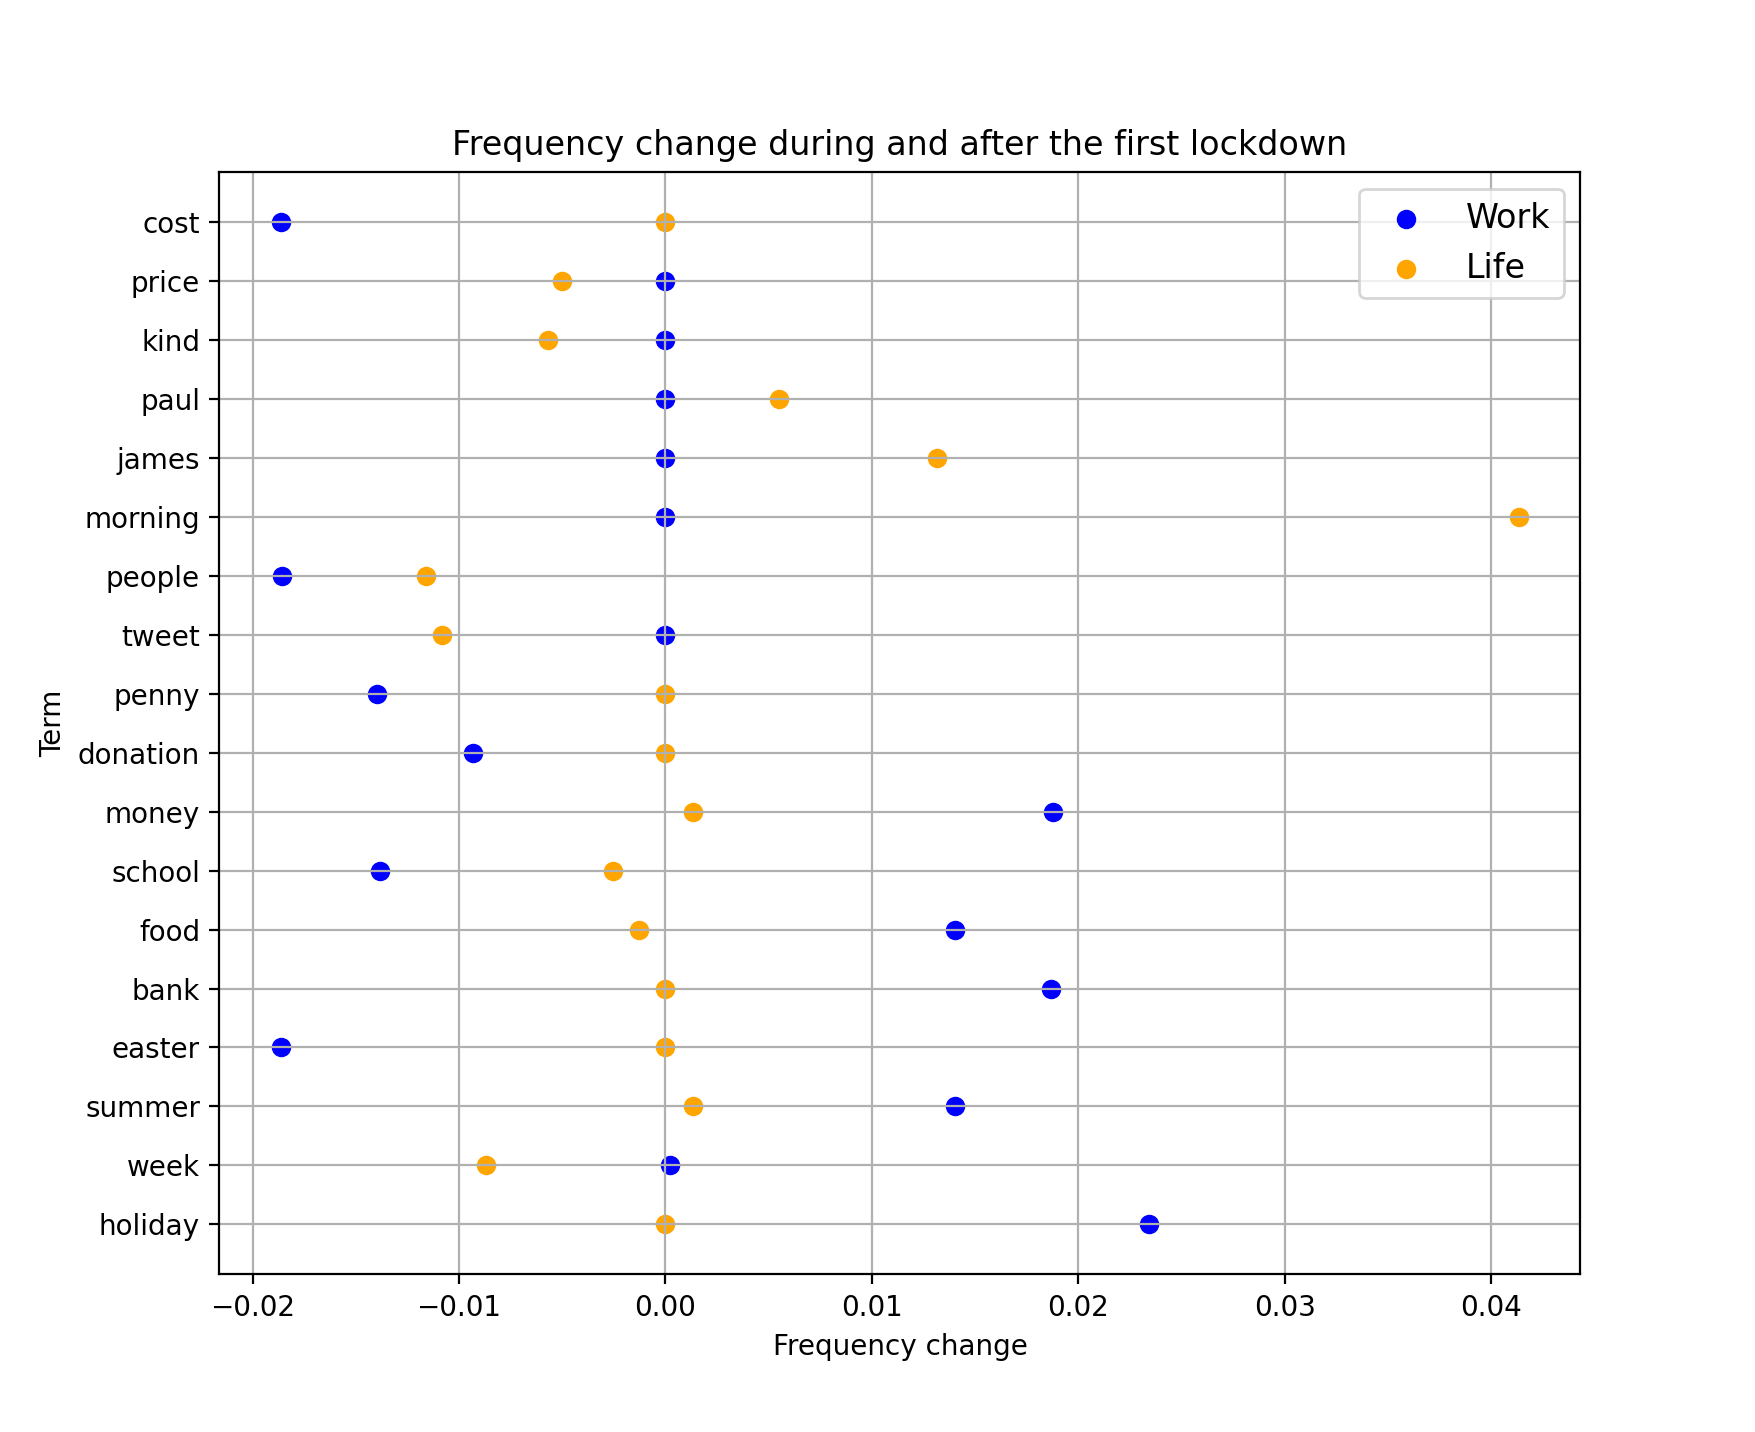
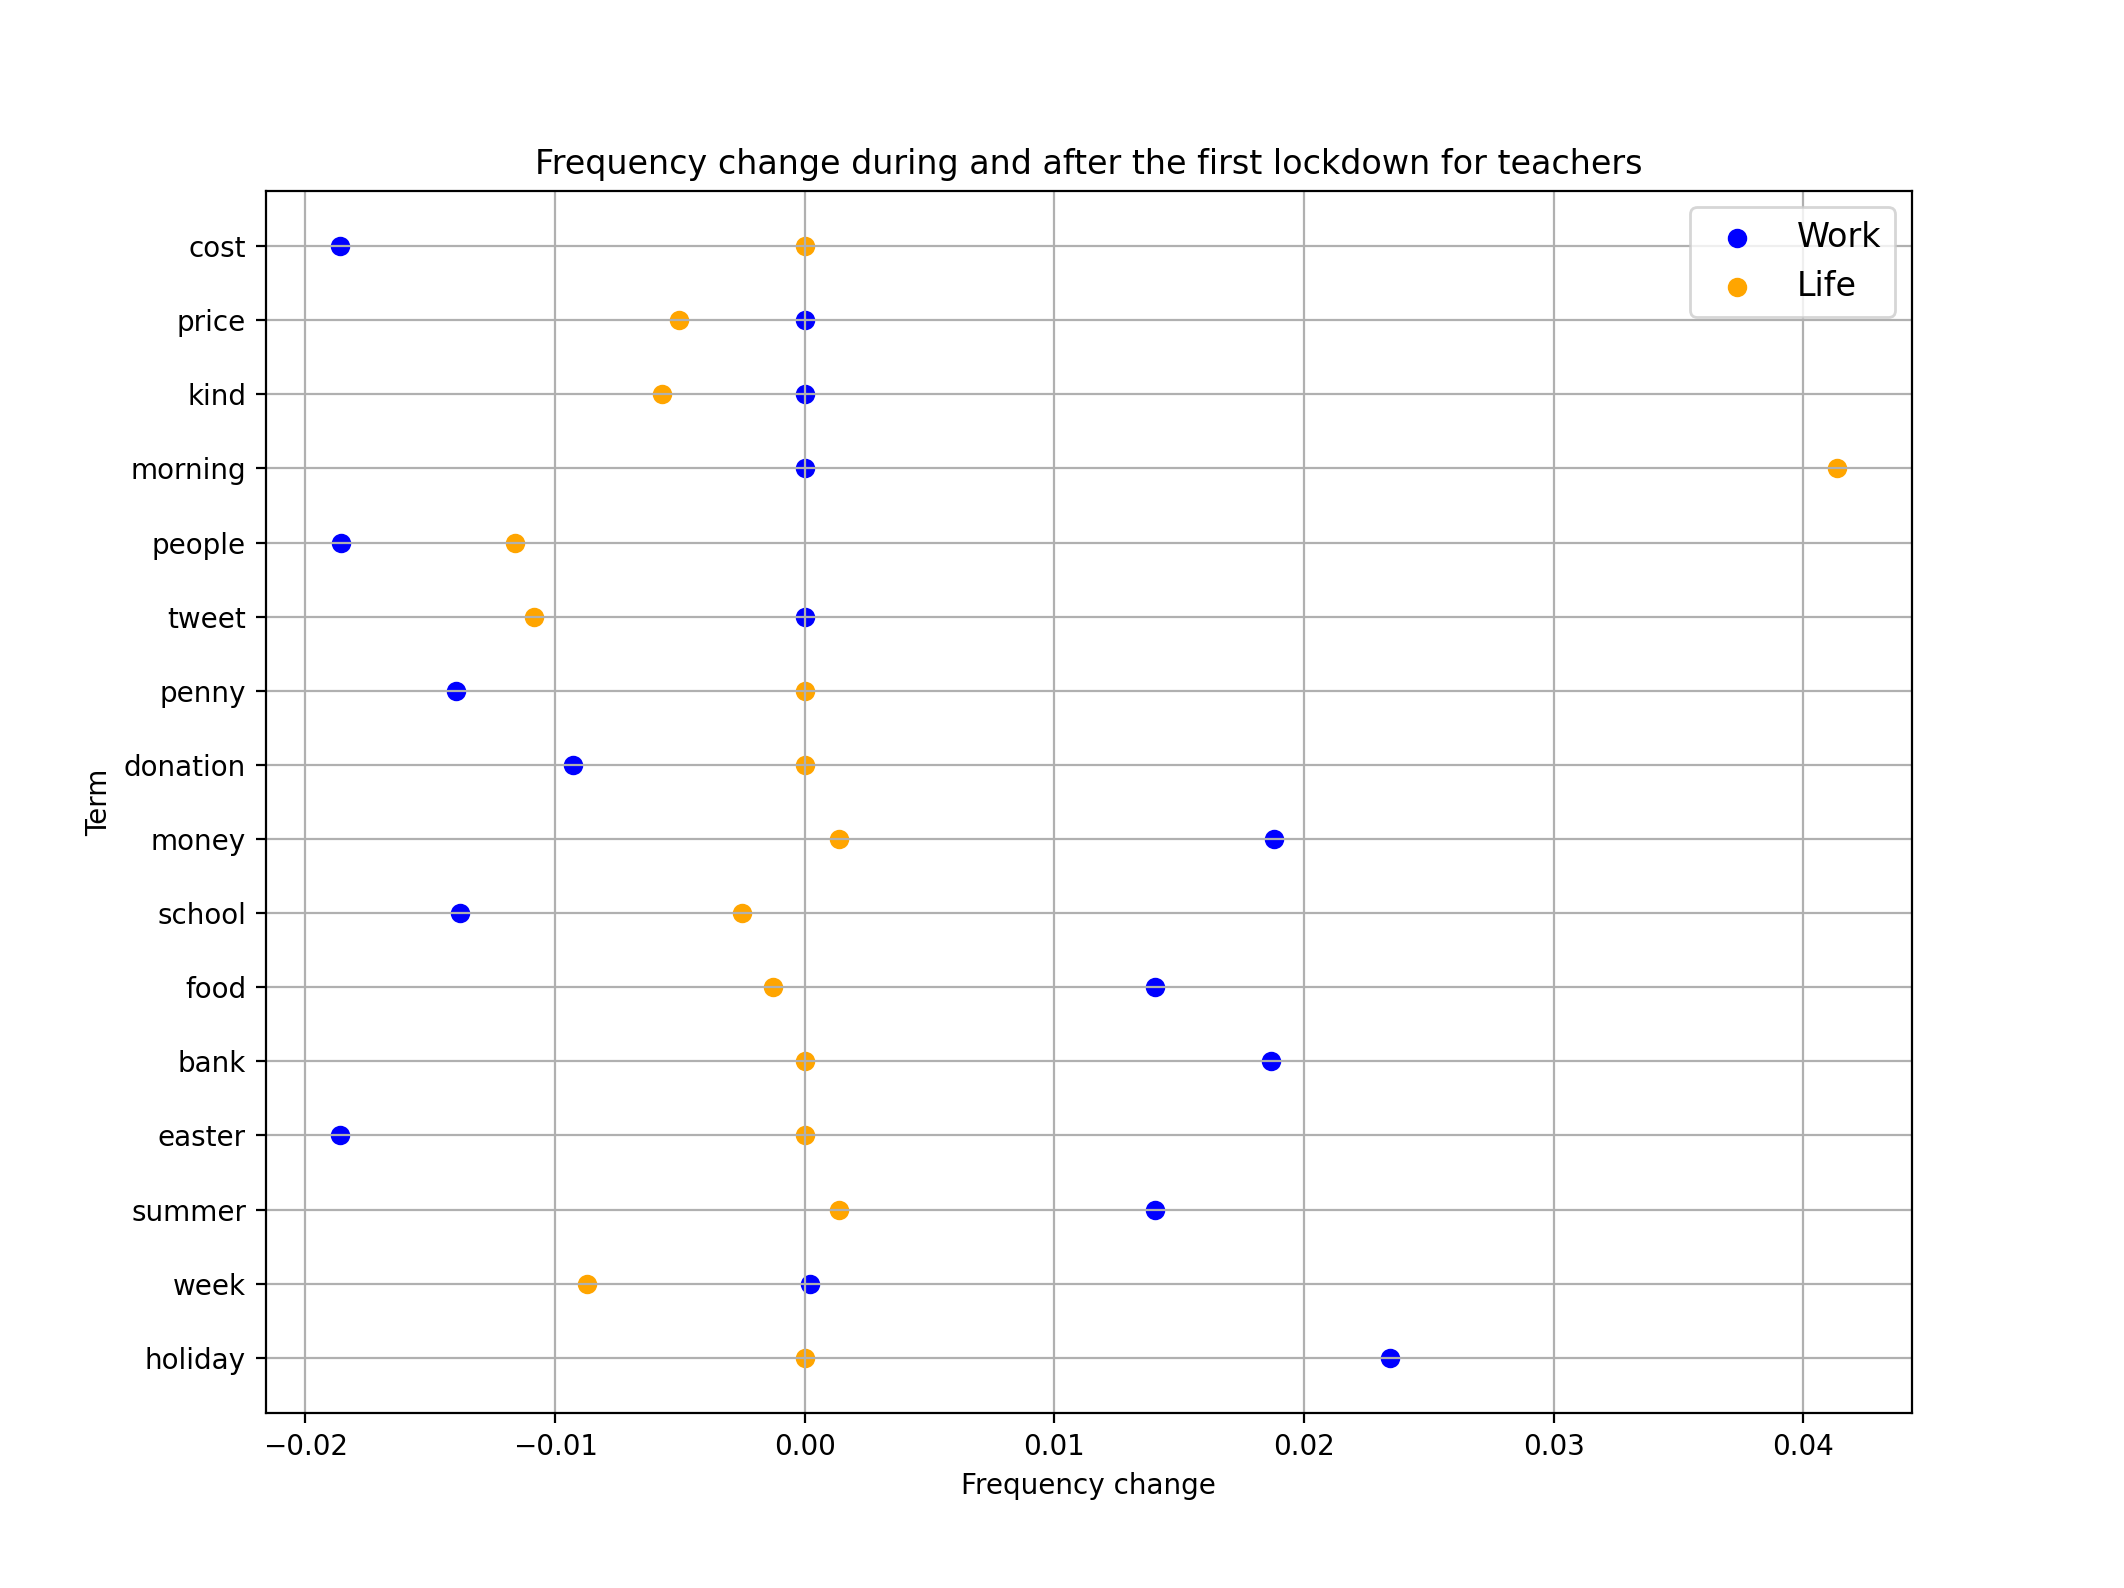
added title to teacher graphs
added title to teacher topic bar graphs

diff --git a/graphs/frequency_change.py b/graphs/frequency_change.py
@@ -178,18 +178,18 @@ def freq_change_plot(df1, df2, which_lockdown, df1_label, df2_label):
            ('Work', 'Life'),
            loc='best',
            fontsize=12)
-    plt.title(f"Frequency change {df1_label} and {df2_label} the {which_lockdown} lockdown")
+    plt.title(f"Frequency change {df1_label} and {df2_label} the {which_lockdown} lockdown for {profession_name}s")
     plt.xlabel("Frequency change")
     plt.ylabel("Term")
     plt.grid()
     plt.show()
 
-freq_change_plot(before1, during1, which_lockdown="first", df1_label = "before", df2_label = "during")
-freq_change_plot(before2, during2, which_lockdown="second", df1_label = "before", df2_label = "during")
-freq_change_plot(before2, during2, which_lockdown="third", df1_label = "before", df2_label = "during")
-freq_change_plot(during1, after1, which_lockdown="first", df1_label = "during", df2_label = "after")
-freq_change_plot(during2, after2, which_lockdown="second", df1_label = "during", df2_label = "after")
-freq_change_plot(during3, after3, which_lockdown="third", df1_label = "during", df2_label = "after")
+# freq_change_plot(before1, during1, which_lockdown="first", df1_label = "before", df2_label = "during")
+# freq_change_plot(before2, during2, which_lockdown="second", df1_label = "before", df2_label = "during")
+# freq_change_plot(before2, during2, which_lockdown="third", df1_label = "before", df2_label = "during")
+# freq_change_plot(during1, after1, which_lockdown="first", df1_label = "during", df2_label = "after")
+# freq_change_plot(during2, after2, which_lockdown="second", df1_label = "during", df2_label = "after")
+# freq_change_plot(during3, after3, which_lockdown="third", df1_label = "during", df2_label = "after")
 
 def compare_life_work(df1, df2, which_lockdown, df1_label, df2_label):
     # first lockdown
@@ -276,17 +276,17 @@ def compare_topics(df1, df2, topics, which_lockdown, df1_label, df2_label, colou
     plt.xticks([r + barWidth for r in range(len(df1_array))],
                categories)
 
-    plt.title(f"Distribution of topics discussed {df1_label} compared to {df2_label} the {which_lockdown} lockdown")
+    plt.title(f"Distribution of topics that {profession_name}s discussed {df1_label} compared to {df2_label} the {which_lockdown} lockdown")
     plt.legend()
     plt.show()
 
 topics = [2,3,4,5,6,8]
-# compare_topics(before1, during1, topics, 'First', 'Before', 'During', 'r', 'g')
-# compare_topics(before2, during2, topics, 'Second', 'Before', 'During', 'r', 'g')
-# compare_topics(before3, during3, topics, 'Third', 'Before', 'During', 'r', 'g')
+compare_topics(before1, during1, topics, 'First', 'Before', 'During', 'r', 'g')
+compare_topics(before2, during2, topics, 'Second', 'Before', 'During', 'r', 'g')
+compare_topics(before3, during3, topics, 'Third', 'Before', 'During', 'r', 'g')
 
-# compare_topics(during1, after1,  topics, 'First', 'During', 'After', 'g', 'b')
-# compare_topics(during2, after2,  topics, 'Second', 'During', 'After', 'g', 'b')
-# compare_topics(during3, after3,  topics, 'Third', 'During', 'After', 'g', 'b')
+compare_topics(during1, after1,  topics, 'First', 'During', 'After', 'g', 'b')
+compare_topics(during2, after2,  topics, 'Second', 'During', 'After', 'g', 'b')
+compare_topics(during3, after3,  topics, 'Third', 'During', 'After', 'g', 'b')
 
 
